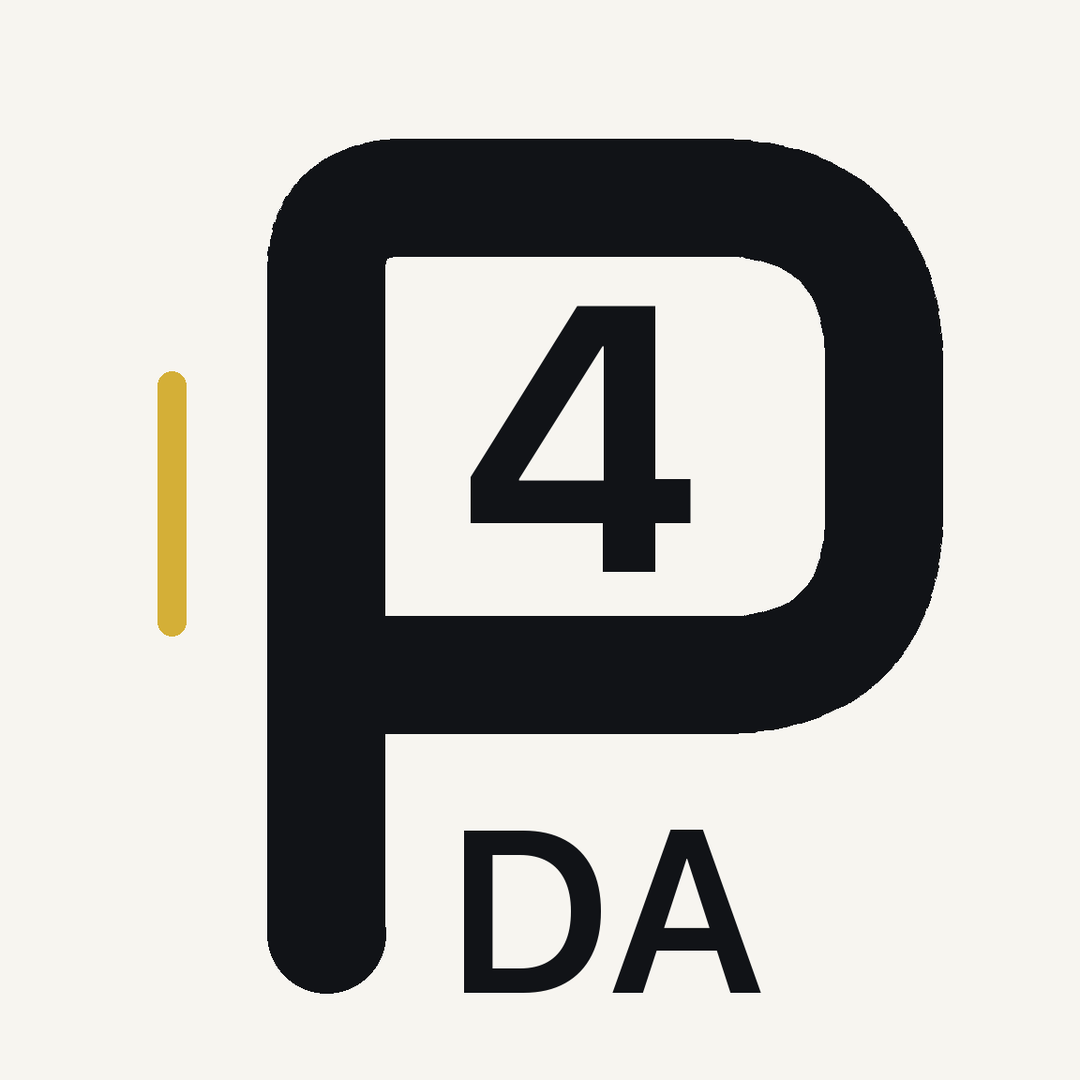
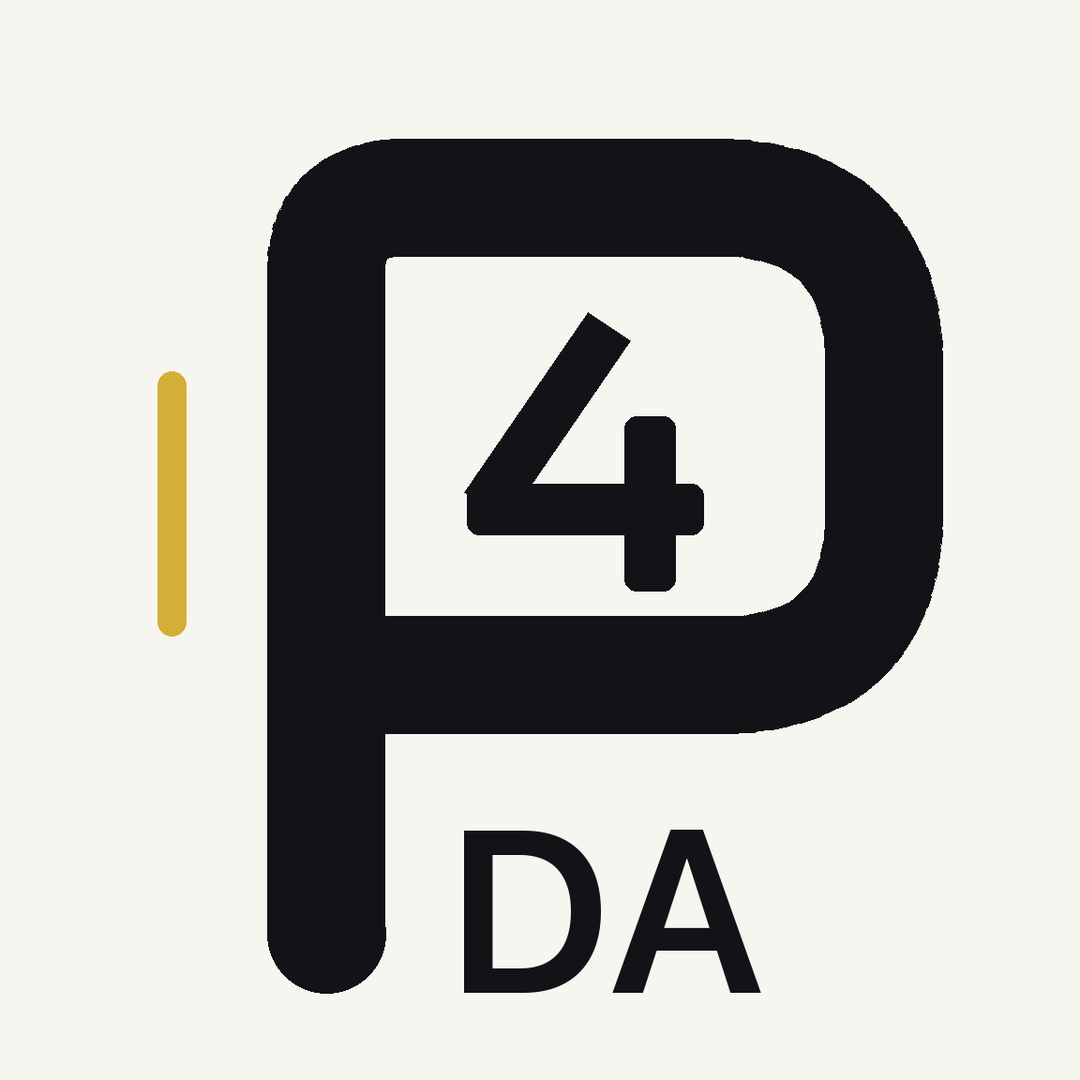
Match approved open four glyph

Changed region(s): [[0.4278, 0.275, 0.6722, 0.55]]

diff --git a/design/app-icon/generate_joined_rhythm_vector_master.py b/design/app-icon/generate_joined_rhythm_vector_master.py
@@ -42,6 +42,26 @@ def fitted(text, max_width, size, weight="Semibold"):
     return font
 
 
+def draw_reference_four(draw, sc, color):
+    """Compact open-top 4 matching the approved reference glyph."""
+    # The reference uses restrained, nearly flat terminals—not round tubes.
+    draw.polygon(
+        [(sc(82.5), sc(87.5)), (sc(104.5), sc(55.5)),
+         (sc(112), sc(60.5)), (sc(90), sc(92.5))],
+        fill=color,
+    )
+    draw.rounded_rectangle(
+        (sc(83), sc(86), sc(125), sc(95)),
+        radius=sc(2.2),
+        fill=color,
+    )
+    draw.rounded_rectangle(
+        (sc(111), sc(74), sc(120), sc(105)),
+        radius=sc(2.2),
+        fill=color,
+    )
+
+
 def render(mode, final_size=1080):
     bg, ink, screen, gold = PALETTES[mode]
     im = Image.new("RGB", (192*S, 192*S), bg)
@@ -57,11 +77,7 @@ def render(mode, final_size=1080):
     d.ellipse((x-r, y-r, x+r, y+r), fill=ink)
     d.rounded_rectangle((sc(28), sc(66), sc(33), sc(113)), radius=sc(2.5), fill=gold)
 
-    four = fitted("4", 52, 67, "Bold")
-    box = d.textbbox((0, 0), "4", font=four)
-    fw, fh = box[2]-box[0], box[3]-box[1]
-    cx, cy = sc(103), sc(79)
-    d.text((cx-fw/2-box[0], cy-fh/2-box[1]-sc(1)), "4", font=four, fill=ink)
+    draw_reference_four(d, sc, ink)
 
     da = fitted("DA", 62, 41, "Semibold")
     box = d.textbbox((0, 0), "DA", font=da)
